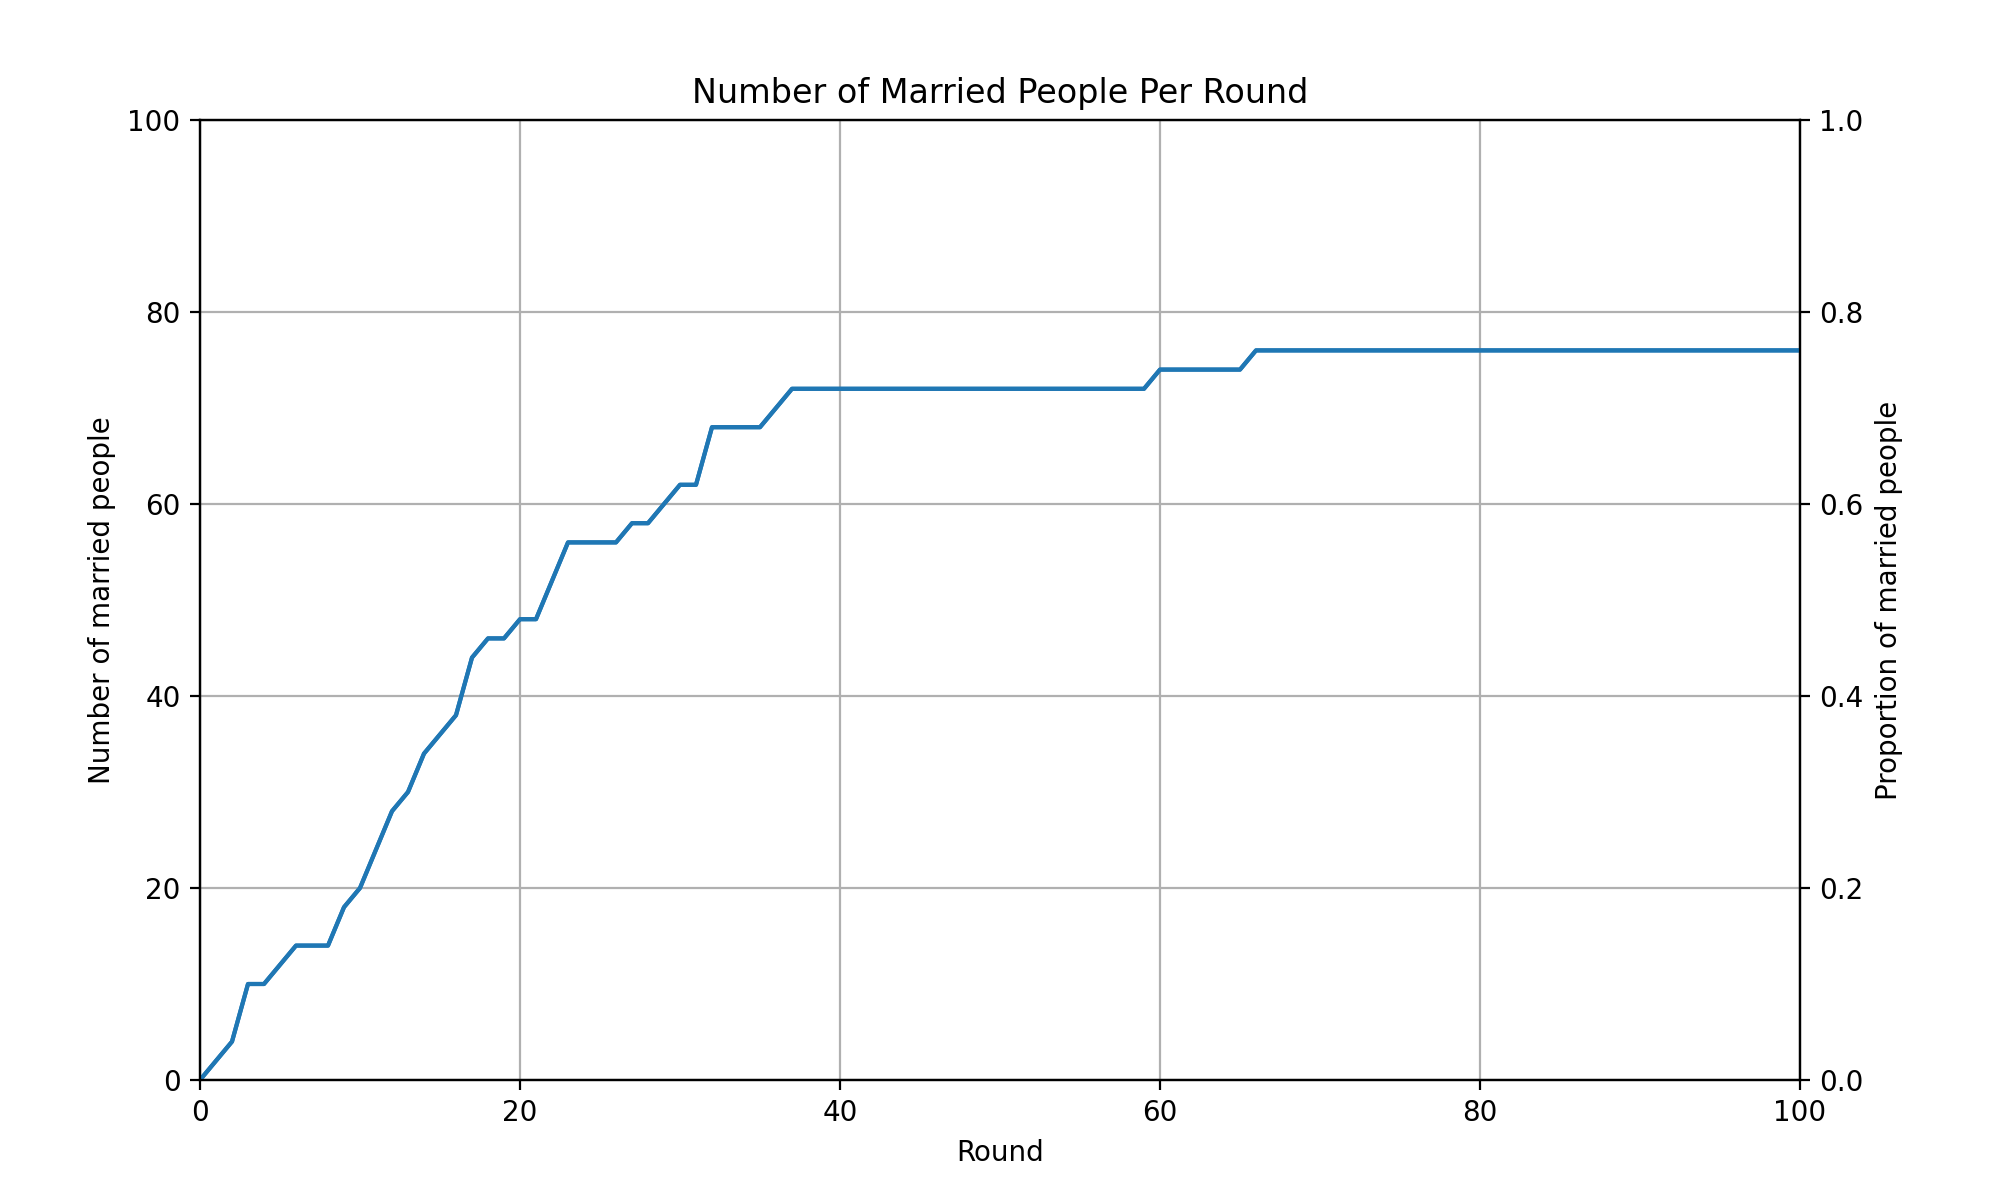
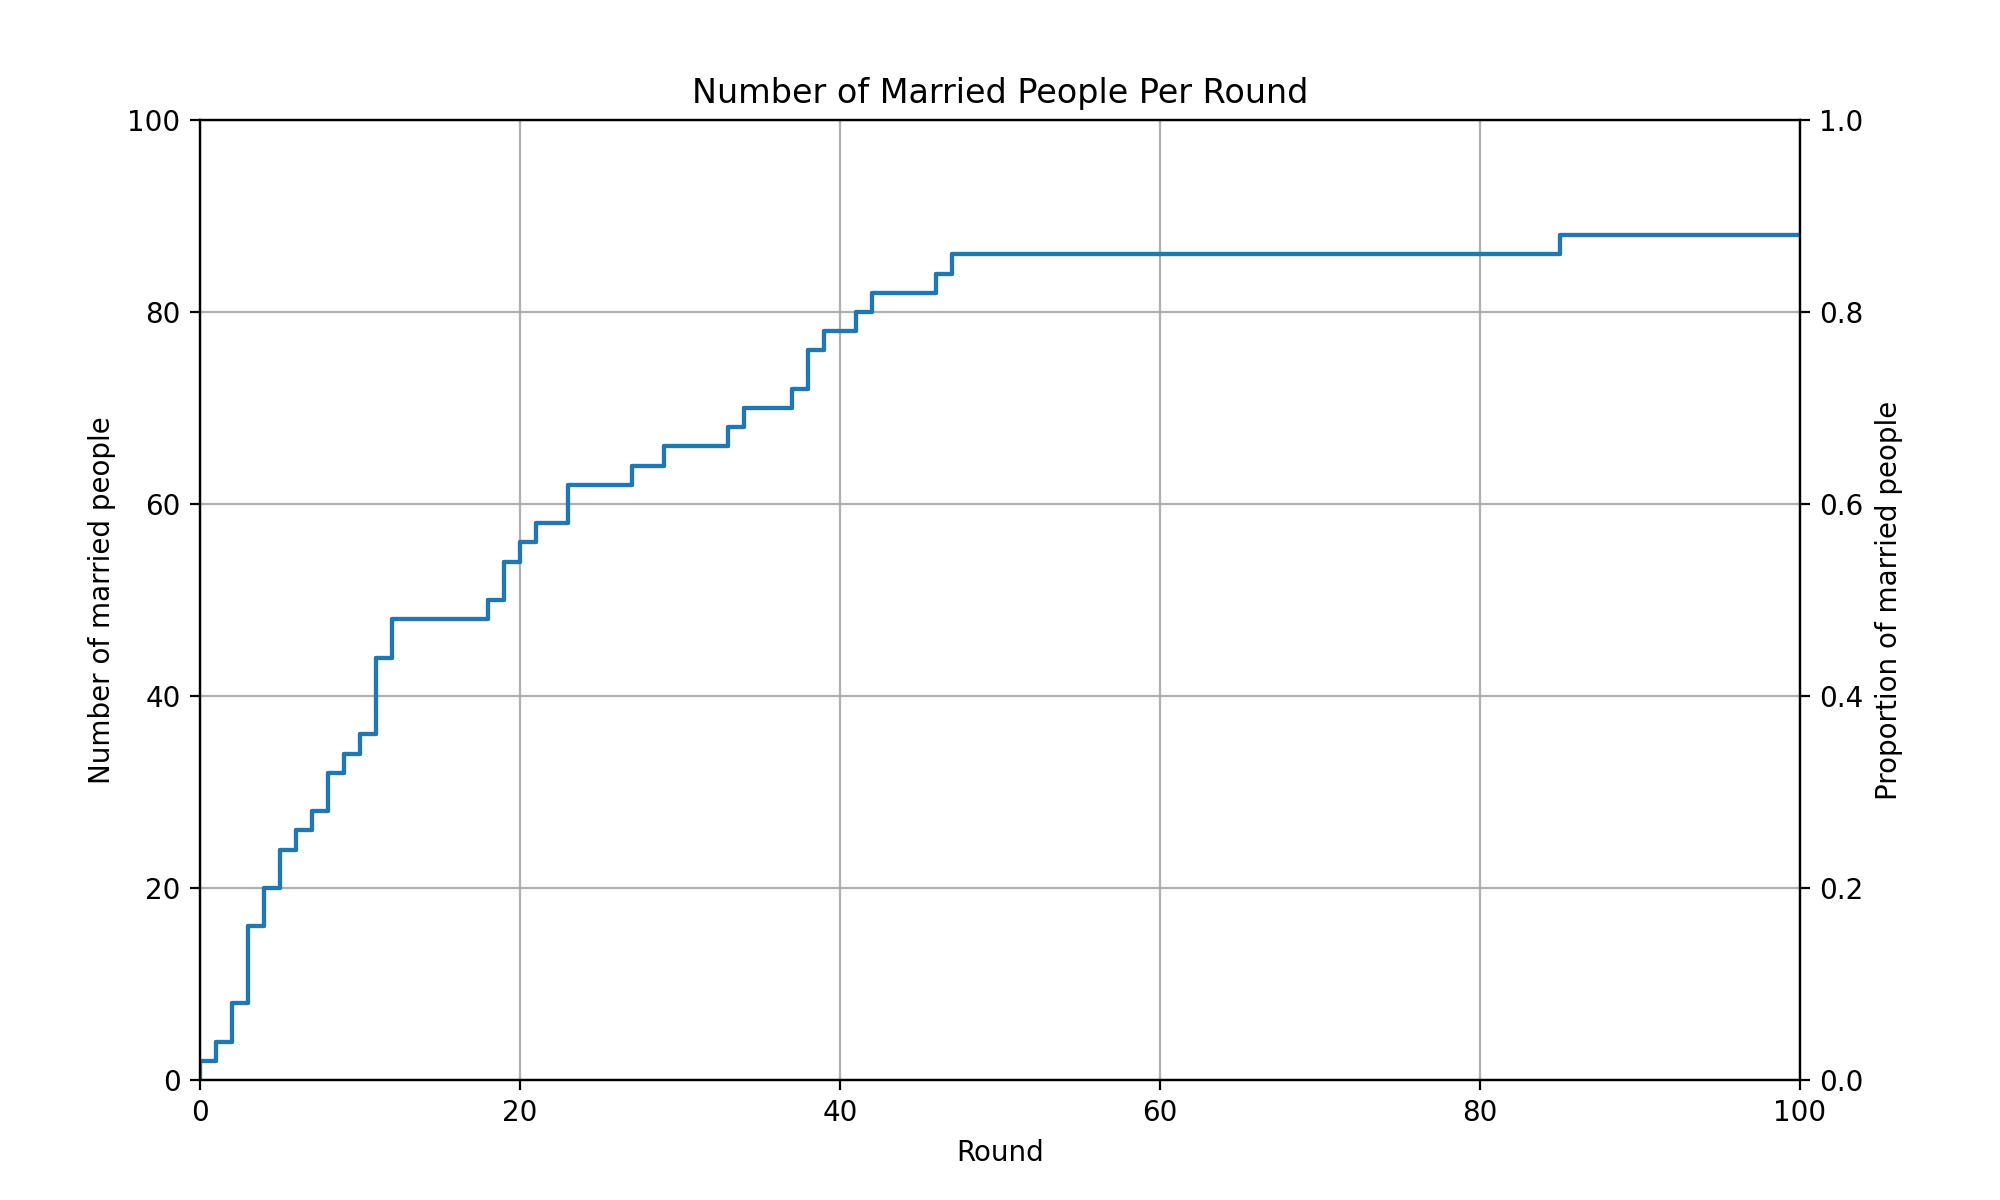
coded aggregate simulations

diff --git a/src/main.py b/src/main.py
@@ -2,13 +2,15 @@ from lover import Lover
 import random
 import numpy as np
 import matplotlib.pyplot as plt
+import pandas as pd
 
-def main(attractionDist, num_population, num_rounds):
+# Compute the total error for each threshold
+def run_simulation(attractionDist, num_population, num_rounds, threshold, plot):
     # initializations
     attraction = []
     lovers = []
     married = set()
-    THRESHOLD = 0.8
+    THRESHOLD = threshold
     POPULATION = num_population
     ROUNDS = num_rounds
 
@@ -49,7 +51,7 @@ def main(attractionDist, num_population, num_rounds):
         # Loop through each single person
         while len(singles) >= 2:
             lover1, lover2 = random.sample(singles, 2)
-
+            
             # Check if the mutual attraction is above the threshold
             if lover1.attraction[lover2.ID] > THRESHOLD and lover2.attraction[lover1.ID] > THRESHOLD:
                 lover1.marriage_status = True
@@ -67,13 +69,23 @@ def main(attractionDist, num_population, num_rounds):
         singles = paired_singles.copy()  # Reassign remaining singles for next round
         num_married.append(len(married)) # Add number of married people to array
         
+    if (plot):
+        plot_simulation(num_married, ROUNDS, POPULATION)
+    
+    # print(num_married)
+    # print("Number of single people: " + str(len(singles)))
+    # print("Number of married people: " + str(len(married)))
+    return num_married
+
 # Plot the number of married people per round
+def plot_simulation(num_married, ROUNDS, POPULATION):
+    # Plot the number of married people per round
     x = np.arange(0, ROUNDS + 1)
     fig, ax1 = plt.subplots(figsize=(10, 6), dpi=200)
 
     ax1.set_xlabel('Round')
     ax1.set_ylabel('Number of married people')
-    ax1.plot(x, num_married)
+    ax1.step(x, num_married)
     ax1.tick_params(axis='y')
     ax1.set_xlim(0, ROUNDS)
     ax1.set_ylim(0, POPULATION)
@@ -82,7 +94,7 @@ def main(attractionDist, num_population, num_rounds):
     # instantiate a second axes that shares the same x-axis
     ax2 = ax1.twinx()
     ax2.set_ylabel('Proportion of married people')
-    ax2.plot(x, np.array(num_married) / POPULATION)
+    ax2.step(x, np.array(num_married) / POPULATION)
     ax2.tick_params(axis='y')
     ax2.set_ylim(0, 1)
     
@@ -94,11 +106,135 @@ def main(attractionDist, num_population, num_rounds):
     plt.title('Number of Married People Per Round')
     fig.savefig('./src/figures/num_married.png')
     plt.close()
+
+# run_simulation("uniform", 100, 100, 0.8, True)
+
+# Compute the average number of married people for each threshold
+def aggregate_simulations(attractionDist, num_population, num_rounds, num_simulations, plot, read_csv=False):
+    # Make array of thresholds from 0 to 1 in increments of 0.01
+    thresholds = np.arange(0, 1.01, 0.01)
     
-    # print(num_married)
-    print("Number of single people: " + str(len(singles)))
-    print("Number of married people: " + str(len(married)))
+    # Instantiate an array to store the average number of married people for each threshold
+    avg_num_married = []
+    
+    # Read the csv file if read_csv is True
+    if (read_csv):
+        avg_num_married = pd.read_csv("./src/data/avg_num_married/" + attractionDist + ".csv", header=None).values.flatten().tolist()
+    else: # Else, run the simulation
+        # For each threshold
+        for threshold in thresholds:
+            print("Threshold: " + str(threshold))
+            # Instantiate an array to store the number of married people for each simulation
+            num_married_threshold = []
+            
+            # Run the simulation num_simulations times
+            for _ in range(num_simulations):
+                # Run the simulation
+                num_married_threshold_sim = run_simulation(attractionDist, num_population, num_rounds, threshold, False)
+                # Append the number of married people from the last round to the array
+                num_married_threshold.append(num_married_threshold_sim[-1])
+                
+            # Find the average number of people married for threshold
+            avg_num_married_threshold = np.mean(num_married_threshold)
+            # Append the average number of people married to the array
+            avg_num_married.append(avg_num_married_threshold)
+        
+    if (plot):
+        plot_agg_simulations(avg_num_married, thresholds, num_rounds)
+        compute_total_error(avg_num_married, thresholds, num_population)
+        
+    # Write the avg_num_married to a csv file
+    pd.DataFrame(avg_num_married).to_csv("./src/data/avg_num_married/" + attractionDist + ".csv", index=False, header=False)
+        
+    return avg_num_married
+        
+    
+# Plot the average number of married people per round for each threshold
+def plot_agg_simulations(avg_num_married, thresholds, num_rounds):
+    # Plot the number of married people per round
+    x = thresholds
+    fig, ax1 = plt.subplots(figsize=(10, 6), dpi=200)
+    ylab = "Average number of married people by round" + str(num_rounds)
+    
+    ax1.set_xlabel('Threshold')
+    ax1.set_ylabel(ylab)
+    ax1.step(x, avg_num_married)
+    ax1.tick_params(axis='y')
+    ax1.set_xlim(0, 1)
+    ax1.set_ylim(0, 100)
+    ax1.grid(True)
+    
+    # Instantiate a second axes that shares the same x-axis
+    ax2 = ax1.twinx()
+    ax2.set_ylabel('Proportion of married people')
+    ax2.step(x, np.array(avg_num_married) / 100)
+    ax2.tick_params(axis='y')
+    ax2.set_ylim(0, 1)
+    
+    
+    # Adjust the layout
+    fig.tight_layout()
+    # Add some margin
+    fig.subplots_adjust(left=0.1, right=0.9, top=0.9, bottom=0.1)
+    
+    plt.title('Average Number of Married People Per Threshold')
+    fig.savefig('./src/figures/avg_num_married.png')
+    plt.close()
+   
+# Compute and plot the total error for each threshold
+def compute_total_error(avg_num_married, thresholds, num_population):
+    # Instantiate an array to store the total error for each threshold
+    total_error = []
+    
+    # For each threshold
+    for i in range(len(thresholds)):
+        # Threshold error
+        threshold_error = 1 - thresholds[i]
+        
+        # Proportion of people married at threshold
+        married_prop = avg_num_married[i] / num_population
+        # Married proportion error
+        married_prop_error = 1 - married_prop
+        
+        # Total error
+        total_error.append(threshold_error + married_prop_error)
+        
+    # Get minimum total error
+    min_total_error = min(total_error)
+    
+    # Plot the total error
+    x = thresholds
+    fig, ax1 = plt.subplots(figsize=(10, 6), dpi=200)
+    ylab = "Total error"
+    
+    ax1.set_xlabel('Threshold')
+    ax1.set_ylabel(ylab)
+    ax1.step(x, total_error)
+    ax1.tick_params(axis='y')
+    ax1.set_xlim(0, 1)
+    ax1.set_ylim(0, 1)
+    ax1.grid(True)
+    
+    # Add a horizontal line at the minimum total error
+    ax1.axhline(y=min_total_error, color='r', linestyle='--')
+    
+    # Add a vertical line at the threshold with the minimum total error
+    ax1.axvline(x=thresholds[total_error.index(min_total_error)], color='r', linestyle='--')
+    
+    # Add a legend containing the minimum total error and the threshold with the minimum total error
+    rounded_min_total_error = round(min_total_error, 4)
+    rounded_threshold = round(thresholds[total_error.index(min_total_error)], 4)
+    ax1.legend(['Total error', 'Minimum total error: ' + str(rounded_min_total_error), 'Threshold with minimum total error: ' + str(rounded_threshold)])
+    
+    # Adjust the layout
+    fig.tight_layout()
+    # Add some margin
+    fig.subplots_adjust(left=0.1, right=0.9, top=0.9, bottom=0.1)
+    
+    plt.title('Total Error Per Threshold')
+    fig.savefig('./src/figures/total_error.png')
+    plt.close()
+        
+    return total_error
 
-
-
-main("uniform", 100, 100)
+aggregate_simulations("uniform", 100, 100, 25, True)
